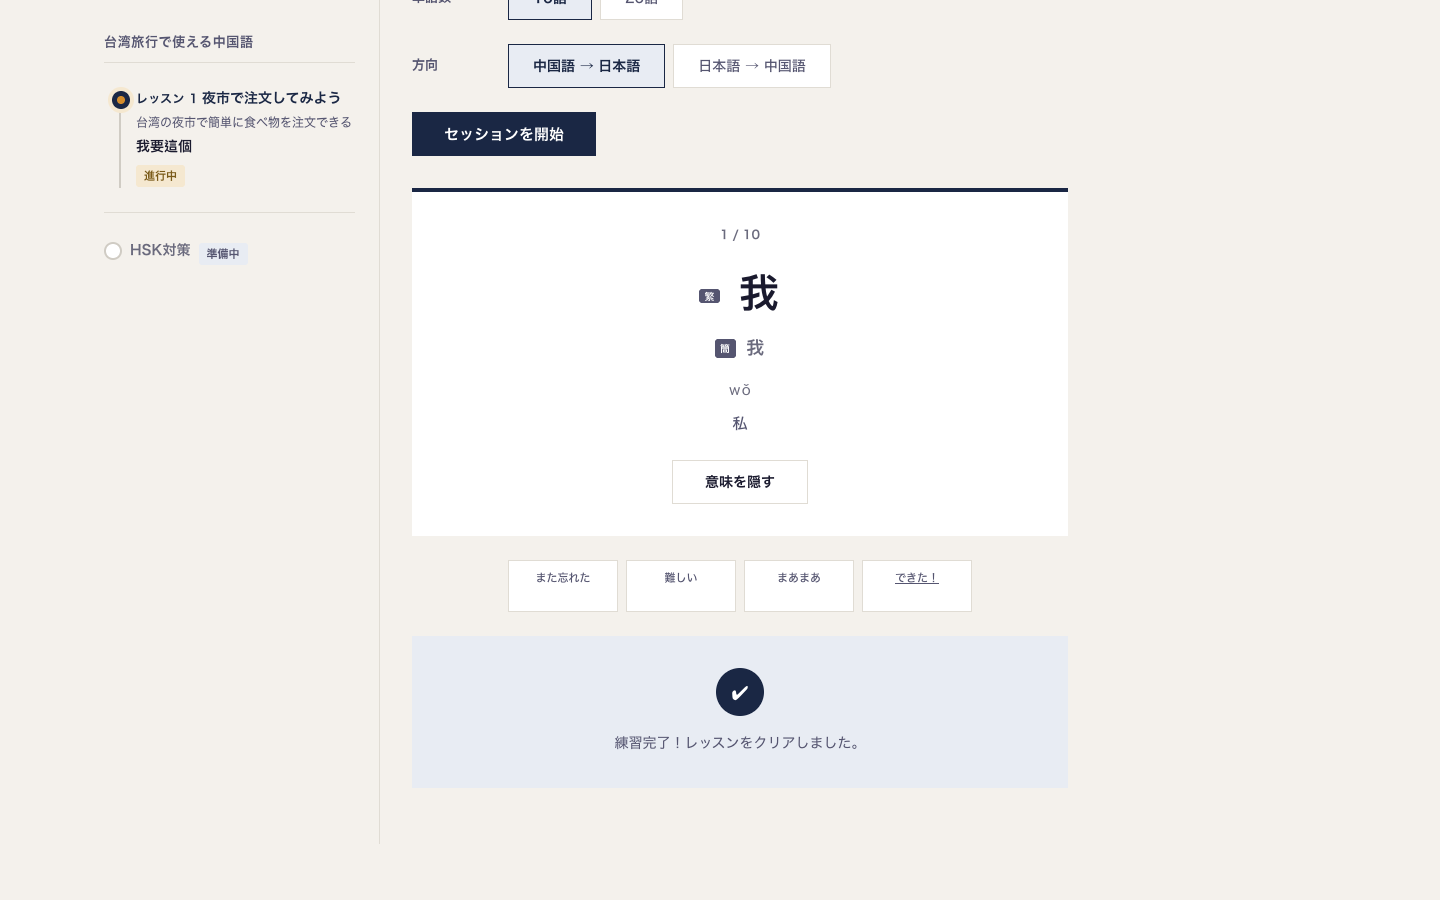
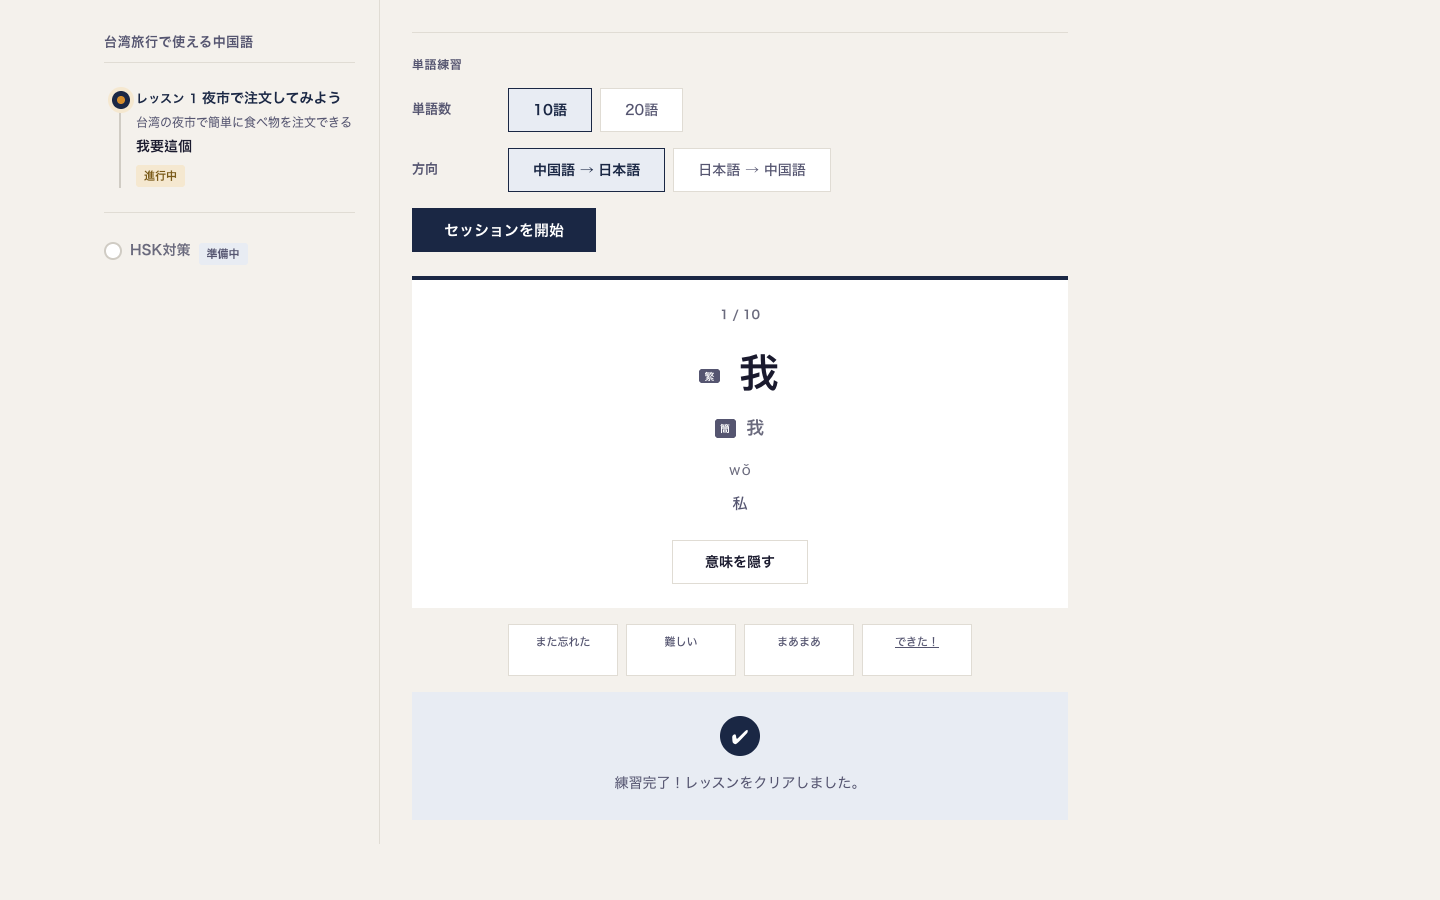
fix: shrink vocab-section spacing so 390x844 viewport fits entire section

diff --git a/docs/design/prototypes/direction-c-city-exploration.html b/docs/design/prototypes/direction-c-city-exploration.html
@@ -562,13 +562,16 @@
   /* --- Completion state ----------------------------------------- */
   .completion {
     text-align: center;
-    padding: var(--space-xl) var(--space-md);
+    padding: var(--space-lg) var(--space-md);
     background: var(--color-primary-light);
-    margin-bottom: var(--space-xl);
+    margin-bottom: 0;
   }
   .completion__icon {
-    width: 48px;
-    height: 48px;
+    width: 40px;
+    height: 40px;
+    background: var(--color-primary);
+    color: #fff;
+    font-size: 1rem;
     background: var(--color-primary);
     color: #fff;
     font-size: 1.25rem;
@@ -621,7 +624,7 @@
 
   /* --- Vocabulary Session --------------------------------------- */
   .vocab-section {
-    margin-bottom: var(--space-2xl);
+    margin-bottom: var(--space-md);
     padding-top: var(--space-lg);
     border-top: 1px solid var(--color-border);
   }
@@ -630,8 +633,8 @@
   .vocab-setup {
     display: flex;
     flex-direction: column;
-    gap: var(--space-lg);
-    margin-bottom: var(--space-xl);
+    gap: var(--space-md);
+    margin-bottom: var(--space-lg);
   }
   .vocab-setup__row {
     display: flex;
@@ -697,9 +700,9 @@
   .vocab-card {
     background: var(--color-surface);
     border-top: 4px solid var(--color-primary);
-    padding: var(--space-xl) var(--space-lg);
+    padding: var(--space-lg) var(--space-lg);
     text-align: center;
-    margin-bottom: var(--space-lg);
+    margin-bottom: var(--space-md);
   }
   .vocab-card__count {
     font-size: 0.75rem;
@@ -794,7 +797,7 @@
     gap: var(--space-sm);
     justify-content: center;
     flex-wrap: wrap;
-    margin-bottom: var(--space-lg);
+    margin-bottom: var(--space-md);
   }
   .vocab-rating__btn {
     min-height: 52px;
